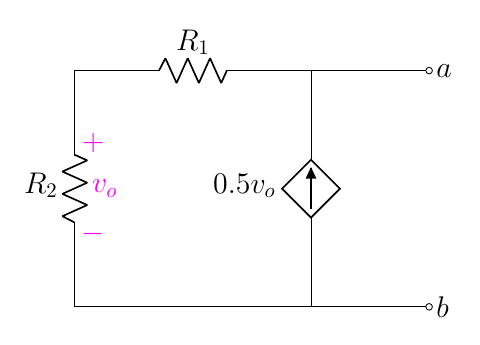
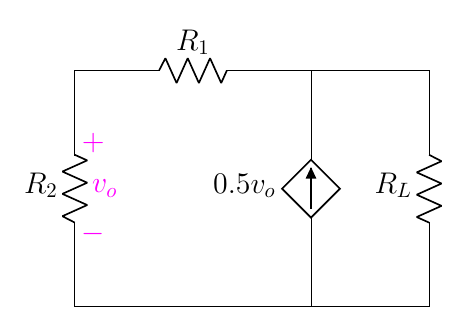
edit 4.63

Changed region(s): [[0.0603, 0.061, 0.9353, 0.9451], [0.8147, 0.4573, 0.9655, 0.7012]]

diff --git a/1.8 Thevinin and Norton/4.5-4.6 Thevenin Norton/4.63(new).tex b/1.8 Thevinin and Norton/4.5-4.6 Thevenin Norton/4.63(new).tex
@@ -3,12 +3,13 @@
 \begin{circuitikz}[american,cute inductors]
     \input{../../preamble2.tex}
 
-    \draw(0,0) node[anchor=west]{$b$}
-        to[short,o-] ++(-6,0)
+    \draw(0,0) 
+        to[short] ++(-6,0)
         to[R,l=\rname{2}] ++(0,4) 
         to[R,l=\rname{1}] ++(4,0) ++(0,-4) 
         to[american controlled current source,l=$0.5v_o$] ++(0,4)
-        to[short,-o] ++(2,0) node[anchor=west]{$a$};
+        to[short] ++(2,0)
+        to[R,l_=\rname{L}] (0,0);
 
     %%% find %%%
     % node[anchor=west]{$a$}
